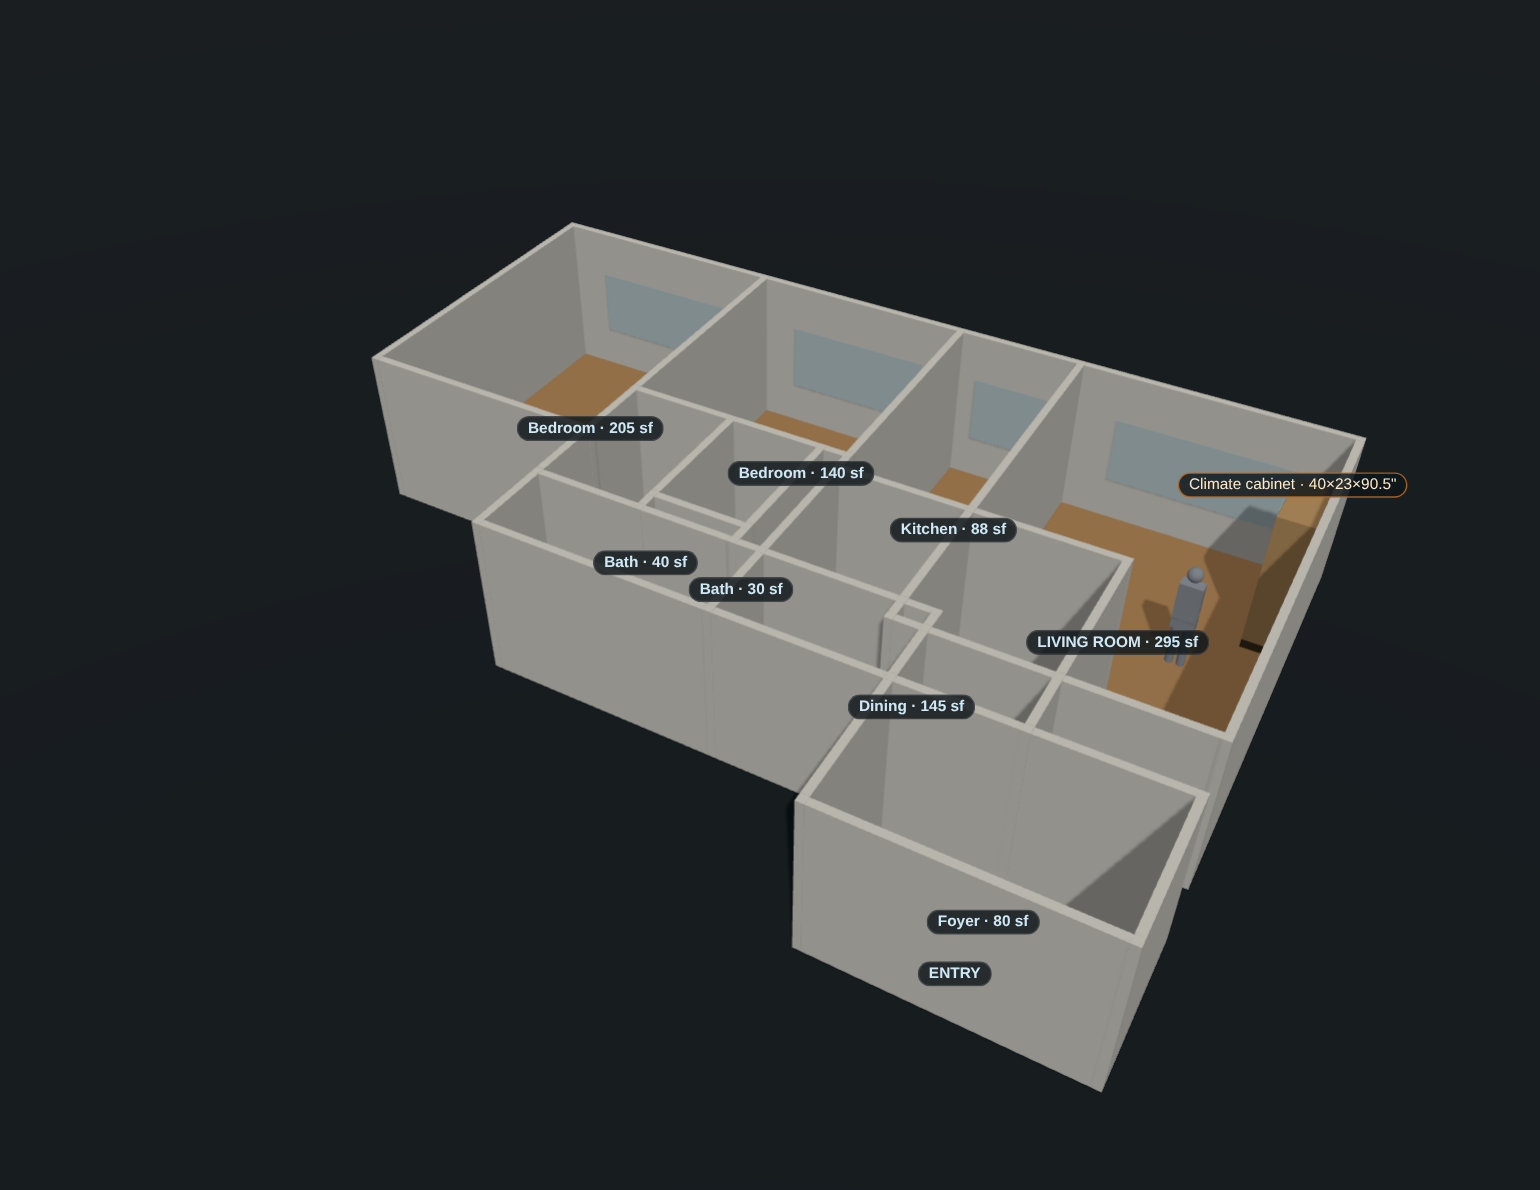
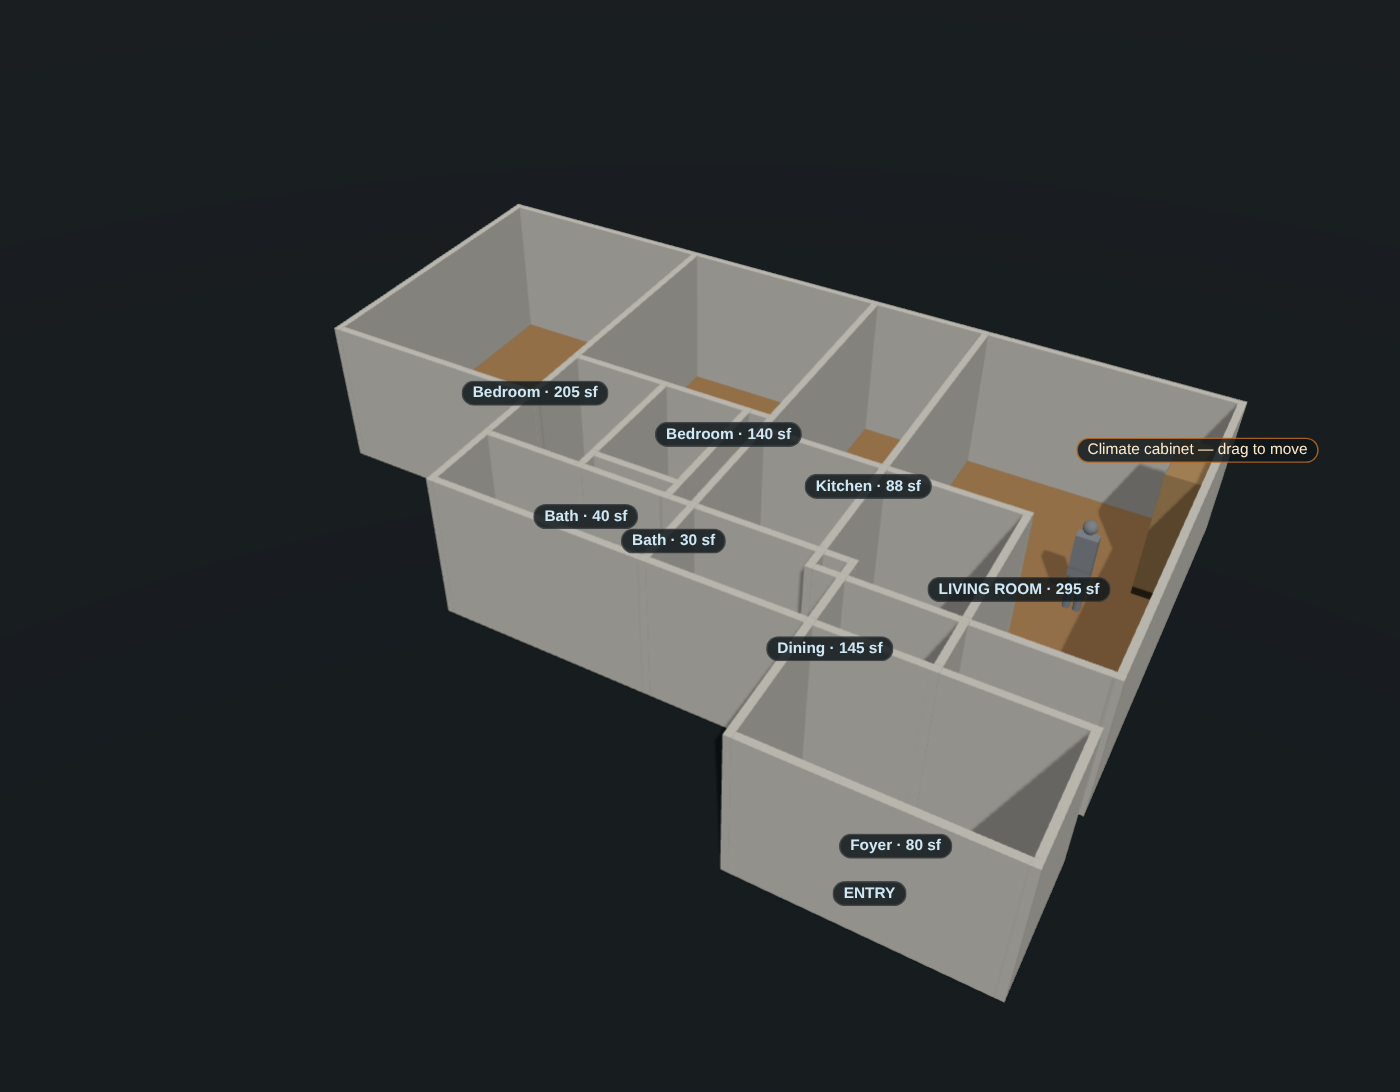
Apartment 3D: draggable cabinet + remove window/sliding-door panels
- Click-drag the cabinet to reposition it anywhere on the floor (orbit
  still works on empty space); clamped to the apartment footprint
- Removed the translucent panels (windows / the plan's sliding doors)
- Cabinet label now moves with the cabinet

diff --git a/apartment-3d.html b/apartment-3d.html
@@ -29,14 +29,13 @@
 <div id="app"></div>
 <div id="title" class="ui">
   <h1>L-Line apartment — 3D</h1>
-  <p><b>Drag</b> orbit · <b>scroll</b> zoom · <b>right-drag</b> pan. The climate cabinet sits on the Living Room's solid east wall. Layout reconstructed from the floor plan — Living Room is to scale (13'-3" × 21'-4"); other rooms are approximate.</p>
+  <p><b>Drag the cabinet</b> to move it across the floor. <b>Drag empty space</b> to orbit · <b>scroll</b> zoom · <b>right-drag</b> pan. Living Room is to scale (13'-3" × 21'-4"); other rooms approximate.</p>
 </div>
 <div id="panel" class="ui">
   <h2>Show</h2>
   <label><input type="checkbox" id="t-walls" checked> Walls</label>
   <label><input type="checkbox" id="t-labels" checked> Room labels</label>
   <label><input type="checkbox" id="t-furn" checked> Cabinet &amp; person</label>
-  <label><input type="checkbox" id="t-win" checked> Windows</label>
   <button id="reset">Reset view</button>
 </div>
 <div id="err" class="ui"><div><h2>Could not start the 3D view</h2><p>Your browser must allow ES modules from local files.</p></div></div>
@@ -88,7 +87,7 @@ scene.add(sun);
 const std = (c, o={}) => new THREE.MeshStandardMaterial({ color: c, roughness: o.r ?? 0.85, metalness: 0, transparent: o.t ?? false, opacity: o.o ?? 1, side: o.side ?? THREE.FrontSide });
 function box(w,h,d,mat){ const m = new THREE.Mesh(new THREE.BoxGeometry(w,h,d), mat); m.castShadow = true; m.receiveShadow = true; return m; }
 const labels = [];
-function label(text, x, y, z, cls){ const e=document.createElement('div'); e.className='lbl '+cls; e.textContent=text; const o=new CSS2DObject(e); o.position.set(x,y,z); o.userData.cls=cls; labels.push(o); return o; }
+function label(text, x, y, z, cls, parent){ const e=document.createElement('div'); e.className='lbl '+cls; e.textContent=text; const o=new CSS2DObject(e); o.position.set(x,y,z); labels.push(o); (parent||scene).add(o); return o; }
 
 // ---- materials ----
 const floorMat = std(0xb98c5a, { r:0.8 });
@@ -110,7 +109,6 @@ const rooms = [
 ];
 
 const wallGroup = new THREE.Group(); scene.add(wallGroup);
-const winGroup  = new THREE.Group(); scene.add(winGroup);
 const floorGroup = new THREE.Group(); scene.add(floorGroup);
 
 function wallSeg(cx, cz, w, d){ const m = box(w, CH, d, wallMat); m.position.set(cx, CH/2, cz); wallGroup.add(m); }
@@ -124,8 +122,6 @@ for (const r of rooms){
   wallSeg(cx, r.z1, w+T, T);     // south
   wallSeg(r.x0, cz, T, d+T);     // west
   wallSeg(r.x1, cz, T, d+T);     // east
-  // north window for street-facing rooms
-  if (r.win){ const g = box(w*0.66, 42, T+0.6, winMat); g.position.set(cx, 48, r.z0); winGroup.add(g); }
   // room label (floats in the room)
   if (r.n) label(r.n, cx, 16, cz, 'room');
   if (r.entry) label('ENTRY', cx, 16, r.z1-10, 'room');
@@ -143,7 +139,7 @@ const glass = box(0.6, 58, 37, std(0xa9d8ea, { t:true, o:0.45, r:0.1 })); glass.
 // a few guitar hints behind the glass
 for (let i=0;i<5;i++){ const g = box(2, 34, 7, std([0x7a4a22,0x2c3e50,0xc0392b,0x274050,0xd9c9a3][i], {r:0.6})); g.position.set(-CD/2+5, BASE+50, -14 + i*7); cab.add(g); }
 furnGroup.add(cab);
-label('Climate cabinet · 40×23×90.5"', cab.position.x - 10, BASE + CHC + 8, cab.position.z, 'cab');
+label('Climate cabinet — drag to move', 0, BASE + CHC + 8, 0, 'cab', cab);
 
 // person for scale (~5'9")
 const skin = std(0x9aa0a8, { r:0.85 });
@@ -162,12 +158,34 @@ ground.rotation.x = -Math.PI/2; ground.position.y = -1.2; ground.receiveShadow =
 // ---- toggles ----
 const $ = id => document.getElementById(id);
 $('t-walls').onchange  = e => wallGroup.visible = e.target.checked;
-$('t-win').onchange    = e => winGroup.visible  = e.target.checked;
 $('t-furn').onchange   = e => furnGroup.visible = e.target.checked;
 $('t-labels').onchange = e => labels.forEach(l => l.element.style.display = e.target.checked ? '' : 'none');
 $('reset').onclick = () => { camera.position.copy(CAM0); controls.target.copy(TGT0); };
-// attach labels after build
-labels.forEach(l => scene.add(l));
+
+// ---- drag the cabinet across the floor ----
+const dragRay = new THREE.Raycaster();
+const dragPlane = new THREE.Plane(new THREE.Vector3(0,1,0), 0);   // floor (y=0)
+const ndc = new THREE.Vector2(); const hit = new THREE.Vector3();
+let dragging = false, grabDX = 0, grabDZ = 0;
+function setNdc(e){ const r = renderer.domElement.getBoundingClientRect(); ndc.set(((e.clientX-r.left)/r.width)*2-1, -((e.clientY-r.top)/r.height)*2+1); }
+renderer.domElement.addEventListener('pointerdown', e => {
+  if (!furnGroup.visible) return;
+  setNdc(e); dragRay.setFromCamera(ndc, camera);
+  if (dragRay.intersectObjects(cab.children, true).length) {
+    dragging = true; controls.enabled = false;
+    if (dragRay.ray.intersectPlane(dragPlane, hit)) { grabDX = cab.position.x - hit.x; grabDZ = cab.position.z - hit.z; }
+    renderer.domElement.style.cursor = 'grabbing';
+  }
+});
+renderer.domElement.addEventListener('pointermove', e => {
+  if (!dragging) return;
+  setNdc(e); dragRay.setFromCamera(ndc, camera);
+  if (dragRay.ray.intersectPlane(dragPlane, hit)) {
+    cab.position.x = THREE.MathUtils.clamp(hit.x + grabDX, CD/2 + 4, 521 - CD/2 - 4);
+    cab.position.z = THREE.MathUtils.clamp(hit.z + grabDZ, CW/2 + 4, 375 - CW/2 - 4);
+  }
+});
+addEventListener('pointerup', () => { if (dragging) { dragging = false; controls.enabled = true; renderer.domElement.style.cursor = ''; } });
 
 addEventListener('resize', () => {
   camera.aspect = innerWidth/innerHeight; camera.updateProjectionMatrix();

diff --git a/apartment-3d.template.html b/apartment-3d.template.html
@@ -29,14 +29,13 @@
 <div id="app"></div>
 <div id="title" class="ui">
   <h1>L-Line apartment — 3D</h1>
-  <p><b>Drag</b> orbit · <b>scroll</b> zoom · <b>right-drag</b> pan. The climate cabinet sits on the Living Room's solid east wall. Layout reconstructed from the floor plan — Living Room is to scale (13'-3" × 21'-4"); other rooms are approximate.</p>
+  <p><b>Drag the cabinet</b> to move it across the floor. <b>Drag empty space</b> to orbit · <b>scroll</b> zoom · <b>right-drag</b> pan. Living Room is to scale (13'-3" × 21'-4"); other rooms approximate.</p>
 </div>
 <div id="panel" class="ui">
   <h2>Show</h2>
   <label><input type="checkbox" id="t-walls" checked> Walls</label>
   <label><input type="checkbox" id="t-labels" checked> Room labels</label>
   <label><input type="checkbox" id="t-furn" checked> Cabinet &amp; person</label>
-  <label><input type="checkbox" id="t-win" checked> Windows</label>
   <button id="reset">Reset view</button>
 </div>
 <div id="err" class="ui"><div><h2>Could not start the 3D view</h2><p>Your browser must allow ES modules from local files.</p></div></div>
@@ -88,7 +87,7 @@ scene.add(sun);
 const std = (c, o={}) => new THREE.MeshStandardMaterial({ color: c, roughness: o.r ?? 0.85, metalness: 0, transparent: o.t ?? false, opacity: o.o ?? 1, side: o.side ?? THREE.FrontSide });
 function box(w,h,d,mat){ const m = new THREE.Mesh(new THREE.BoxGeometry(w,h,d), mat); m.castShadow = true; m.receiveShadow = true; return m; }
 const labels = [];
-function label(text, x, y, z, cls){ const e=document.createElement('div'); e.className='lbl '+cls; e.textContent=text; const o=new CSS2DObject(e); o.position.set(x,y,z); o.userData.cls=cls; labels.push(o); return o; }
+function label(text, x, y, z, cls, parent){ const e=document.createElement('div'); e.className='lbl '+cls; e.textContent=text; const o=new CSS2DObject(e); o.position.set(x,y,z); labels.push(o); (parent||scene).add(o); return o; }
 
 // ---- materials ----
 const floorMat = std(0xb98c5a, { r:0.8 });
@@ -110,7 +109,6 @@ const rooms = [
 ];
 
 const wallGroup = new THREE.Group(); scene.add(wallGroup);
-const winGroup  = new THREE.Group(); scene.add(winGroup);
 const floorGroup = new THREE.Group(); scene.add(floorGroup);
 
 function wallSeg(cx, cz, w, d){ const m = box(w, CH, d, wallMat); m.position.set(cx, CH/2, cz); wallGroup.add(m); }
@@ -124,8 +122,6 @@ for (const r of rooms){
   wallSeg(cx, r.z1, w+T, T);     // south
   wallSeg(r.x0, cz, T, d+T);     // west
   wallSeg(r.x1, cz, T, d+T);     // east
-  // north window for street-facing rooms
-  if (r.win){ const g = box(w*0.66, 42, T+0.6, winMat); g.position.set(cx, 48, r.z0); winGroup.add(g); }
   // room label (floats in the room)
   if (r.n) label(r.n, cx, 16, cz, 'room');
   if (r.entry) label('ENTRY', cx, 16, r.z1-10, 'room');
@@ -143,7 +139,7 @@ const glass = box(0.6, 58, 37, std(0xa9d8ea, { t:true, o:0.45, r:0.1 })); glass.
 // a few guitar hints behind the glass
 for (let i=0;i<5;i++){ const g = box(2, 34, 7, std([0x7a4a22,0x2c3e50,0xc0392b,0x274050,0xd9c9a3][i], {r:0.6})); g.position.set(-CD/2+5, BASE+50, -14 + i*7); cab.add(g); }
 furnGroup.add(cab);
-label('Climate cabinet · 40×23×90.5"', cab.position.x - 10, BASE + CHC + 8, cab.position.z, 'cab');
+label('Climate cabinet — drag to move', 0, BASE + CHC + 8, 0, 'cab', cab);
 
 // person for scale (~5'9")
 const skin = std(0x9aa0a8, { r:0.85 });
@@ -162,12 +158,34 @@ ground.rotation.x = -Math.PI/2; ground.position.y = -1.2; ground.receiveShadow =
 // ---- toggles ----
 const $ = id => document.getElementById(id);
 $('t-walls').onchange  = e => wallGroup.visible = e.target.checked;
-$('t-win').onchange    = e => winGroup.visible  = e.target.checked;
 $('t-furn').onchange   = e => furnGroup.visible = e.target.checked;
 $('t-labels').onchange = e => labels.forEach(l => l.element.style.display = e.target.checked ? '' : 'none');
 $('reset').onclick = () => { camera.position.copy(CAM0); controls.target.copy(TGT0); };
-// attach labels after build
-labels.forEach(l => scene.add(l));
+
+// ---- drag the cabinet across the floor ----
+const dragRay = new THREE.Raycaster();
+const dragPlane = new THREE.Plane(new THREE.Vector3(0,1,0), 0);   // floor (y=0)
+const ndc = new THREE.Vector2(); const hit = new THREE.Vector3();
+let dragging = false, grabDX = 0, grabDZ = 0;
+function setNdc(e){ const r = renderer.domElement.getBoundingClientRect(); ndc.set(((e.clientX-r.left)/r.width)*2-1, -((e.clientY-r.top)/r.height)*2+1); }
+renderer.domElement.addEventListener('pointerdown', e => {
+  if (!furnGroup.visible) return;
+  setNdc(e); dragRay.setFromCamera(ndc, camera);
+  if (dragRay.intersectObjects(cab.children, true).length) {
+    dragging = true; controls.enabled = false;
+    if (dragRay.ray.intersectPlane(dragPlane, hit)) { grabDX = cab.position.x - hit.x; grabDZ = cab.position.z - hit.z; }
+    renderer.domElement.style.cursor = 'grabbing';
+  }
+});
+renderer.domElement.addEventListener('pointermove', e => {
+  if (!dragging) return;
+  setNdc(e); dragRay.setFromCamera(ndc, camera);
+  if (dragRay.ray.intersectPlane(dragPlane, hit)) {
+    cab.position.x = THREE.MathUtils.clamp(hit.x + grabDX, CD/2 + 4, 521 - CD/2 - 4);
+    cab.position.z = THREE.MathUtils.clamp(hit.z + grabDZ, CW/2 + 4, 375 - CW/2 - 4);
+  }
+});
+addEventListener('pointerup', () => { if (dragging) { dragging = false; controls.enabled = true; renderer.domElement.style.cursor = ''; } });
 
 addEventListener('resize', () => {
   camera.aspect = innerWidth/innerHeight; camera.updateProjectionMatrix();
